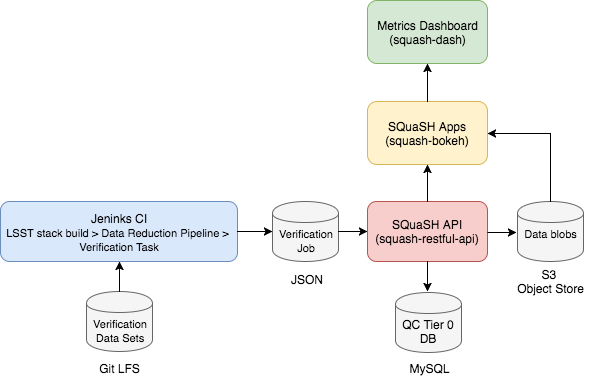
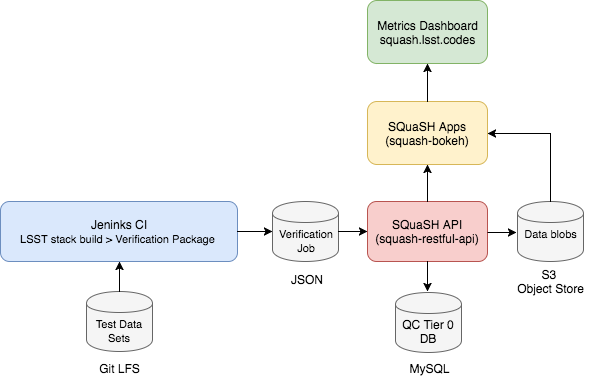
Fixed overview diagram and description

Changed region(s): [[0.0, 0.5625, 0.3959, 0.6562], [0.1523, 0.8125, 0.2437, 0.9062], [0.6396, 0.0938, 0.8223, 0.125]]

diff --git a/index.rst b/index.rst
@@ -64,6 +64,8 @@ We expect to get feedback from users and iterate with the science pipelines grou
 Design guidelines
 =================
 
+
+
 Some of the design guidelines and features of SQuaSH are summarized below:
 
  - implement the concepts developed in the `LSST Verification Framework <https://sqr-019.lsst.io>`_
@@ -119,13 +121,20 @@ Use case 1: Afterburner packages in CI
    :target: _static/overview.png
    :alt: SQuaSH in the context of CI
 
-In its `current implementation <https://squash.lsst.codes/>`_, SQuaSH supports verification packages that run through the Jenkins CI environment and stores the corresponding metric measurements and data used to compute them. After the stack build the Jenkins pipeline performs the data reduction and run the verification package on test data sets are stored on `Git LFS <https://sqr-001.lsst.io/>`_.
 
-By measuring metrics in fixed data sets in CI we monitor the stability of the LSST software stack and can correlate deviations of the metric measurements with code changes.
+SQuaSH supports verification packages that run as after burners in Jenkins CI.
+
+In the current implementation, the Jenkins ``release/nightly-release`` pipeline builds the stack and triggers ``validate_drp`` which performs the data reduction step on test data sets and make the verification measurements on the data reduction outputs.
+
+By measuring metrics on `fixed` data sets in CI we monitor the stability of the LSST software stack and can correlate deviations of the metric measurements with code changes.
+
+The results are sent to the `SQuaSH metrics dashboard <https://squash.lsst.codes/>`_.
 
 
 Use case 2: Instrumenting Science Pipeline tasks
 ------------------------------------------------
+
+The ``jointcal`` is an example of science pipeline task that uses ``lsst.verify`` for making verification measurements. In its current implementation the verification ``Job`` is serialized to JSON
 
 
 Support for multiple execution environments
